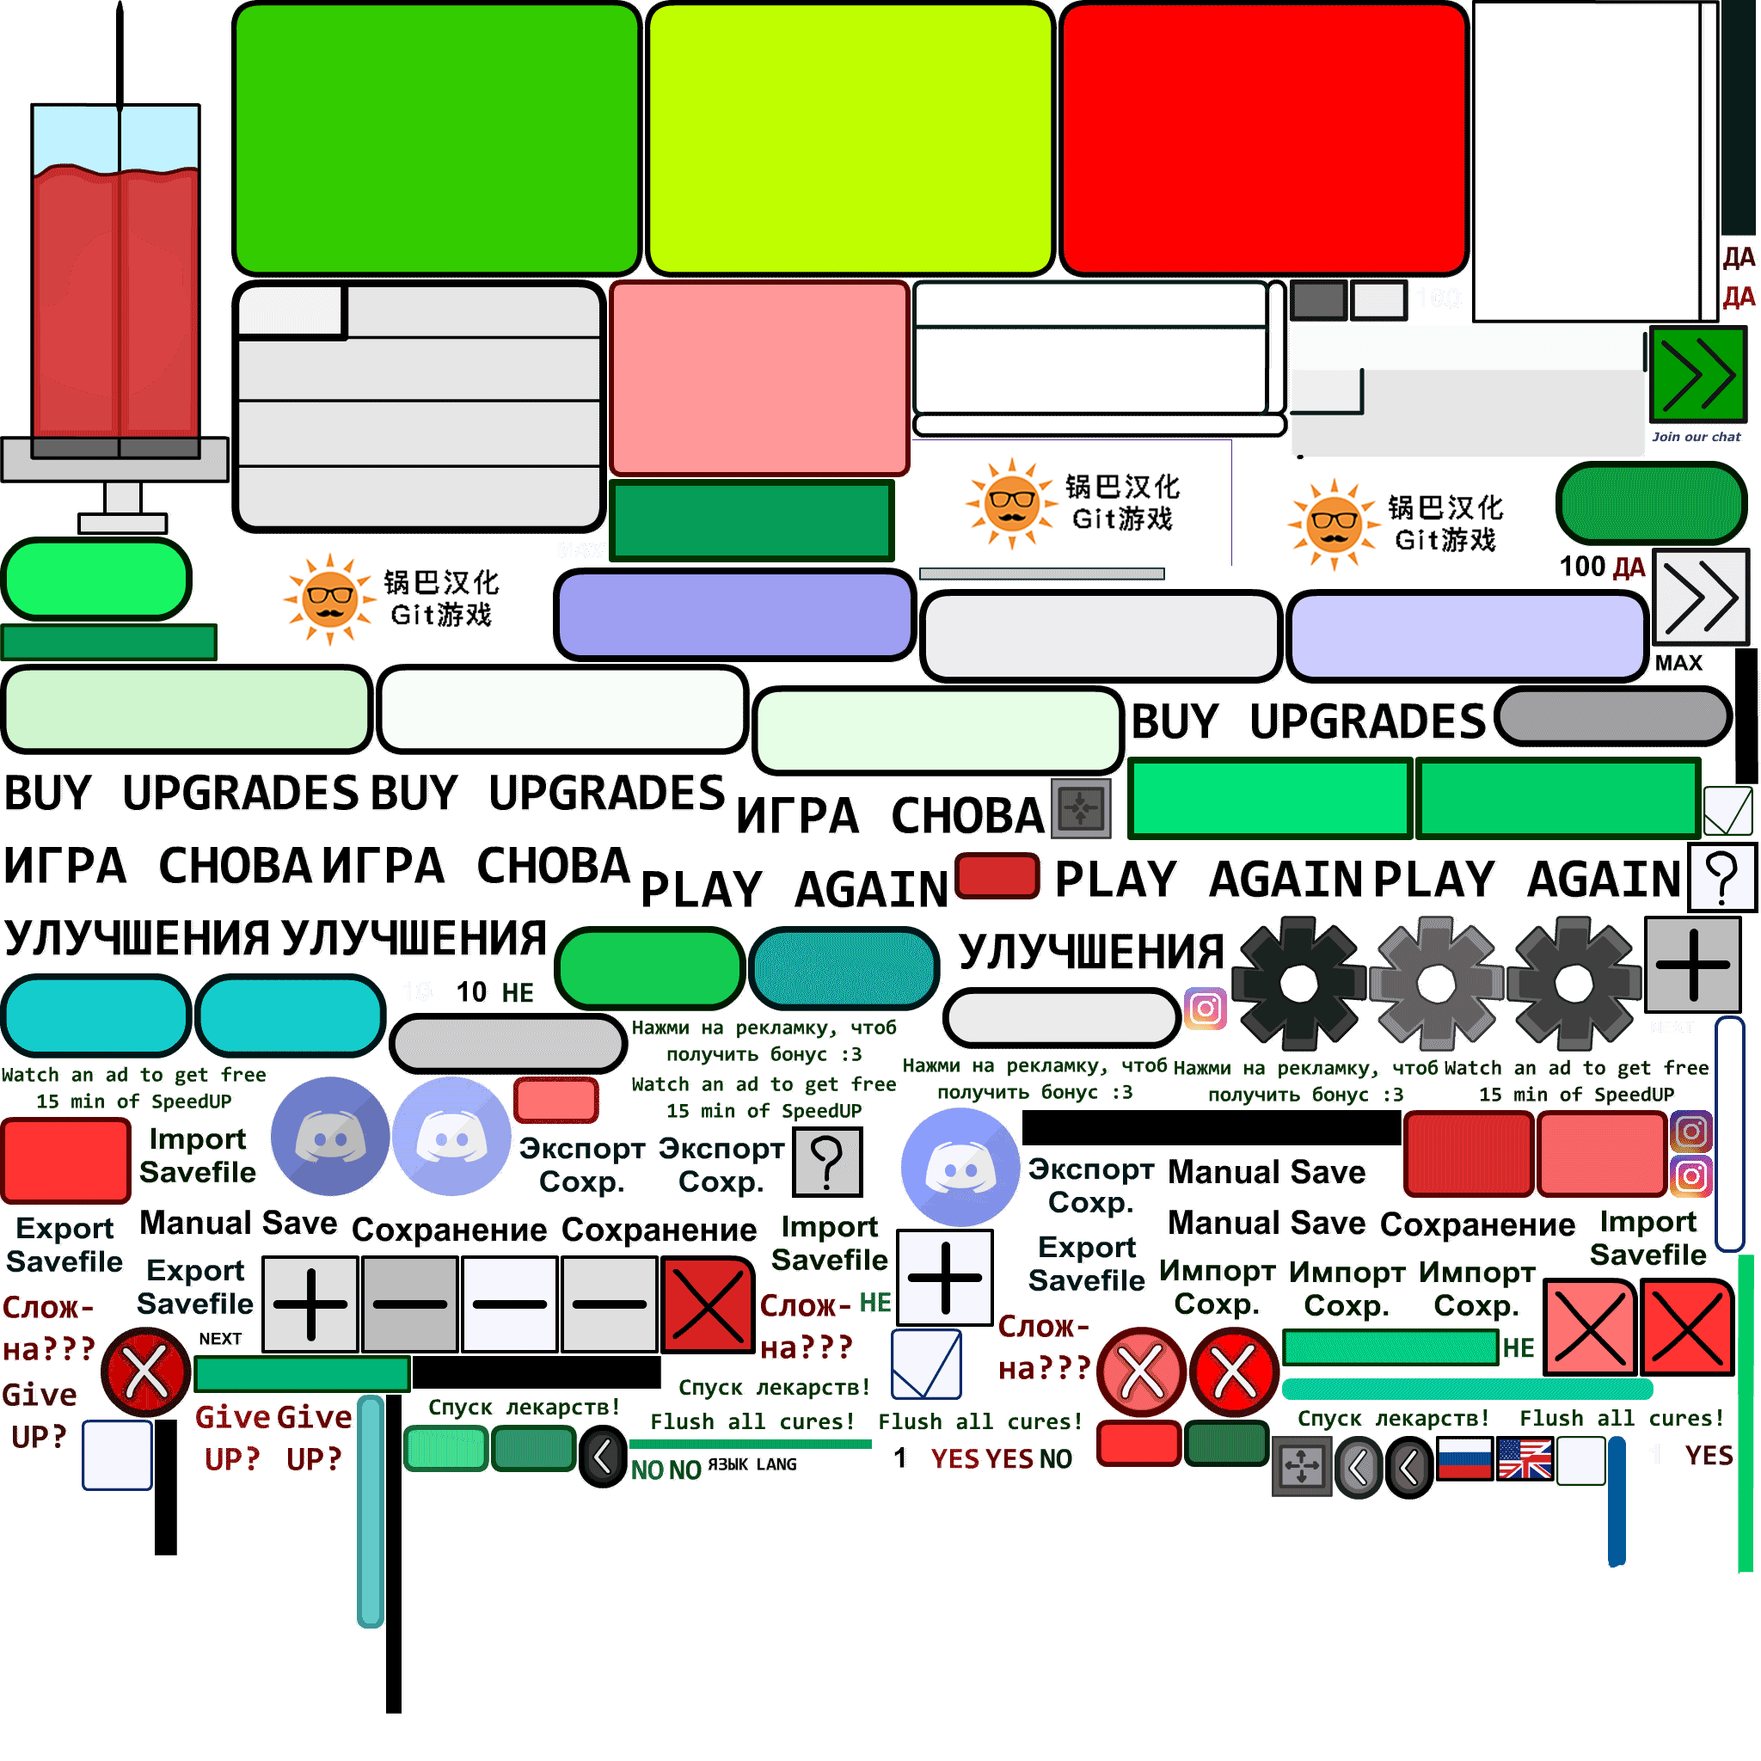
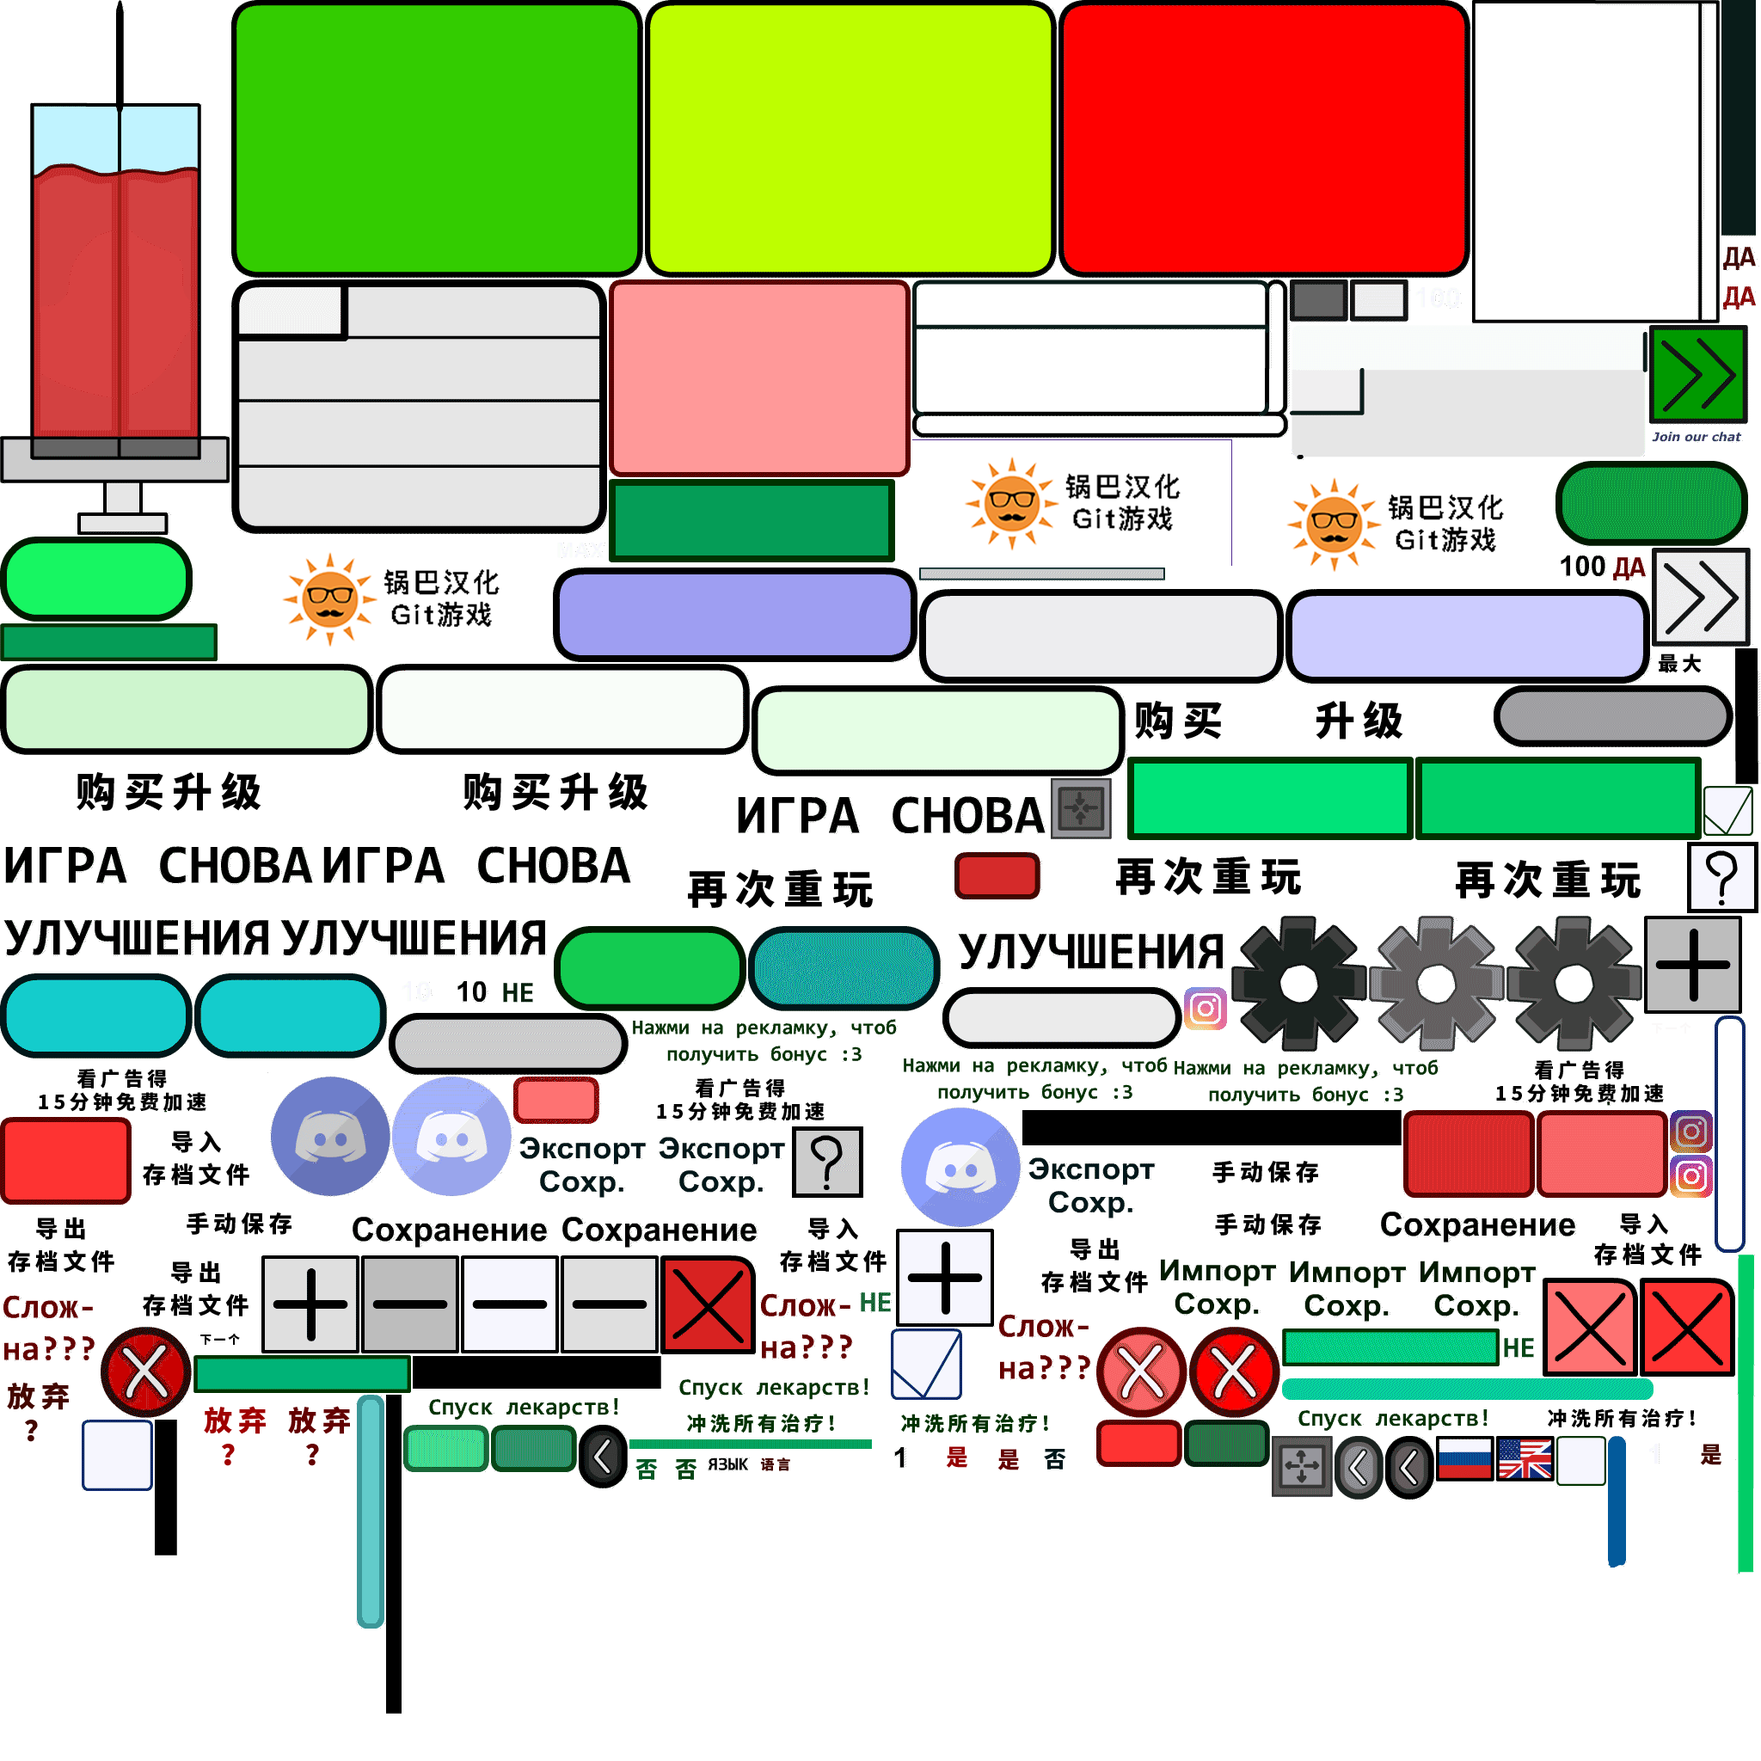
更新

diff --git a/index.js b/index.js
@@ -5277,7 +5277,7 @@ p.nominalBounds = new cjs.Rectangle(-2,-2,166.5,48.5);
 				this.spdUP.visible = true;
 				this.spdTime.visible = true;
 				if (language == 0) {
-					this.spdUP.text = "SpeedUP (x3)";
+					this.spdUP.text = "加速 (x3)";
 					this.spdTime.text = Math.round(speedUPTime*10)/10 + " s";
 				}
 				else {
@@ -5309,7 +5309,7 @@ p.nominalBounds = new cjs.Rectangle(-2,-2,166.5,48.5);
 			
 			if (!insBonus) {
 				this.bonus1.visible = true;
-				this.bonus1.text = trans("click for 20 mins bonus time");
+				this.bonus1.text = trans("点击获得 20 分钟奖励时间");
 			}
 			else {
 				this.bonus1.visible = false;
@@ -5343,16 +5343,16 @@ p.nominalBounds = new cjs.Rectangle(-2,-2,166.5,48.5);
 				
 				
 				if (language == 0) {
-					this.congWind.concon.text = "Congratulations, you saved the World!";
-					this.congWind.killedIs.text = "and killed some people";
+					this.congWind.concon.text = "恭喜，你拯救了世界！";
+					this.congWind.killedIs.text = "并杀死了一些人";
 					
-					this.congWind.tookDays.text = "It took you " + Math.ceil(daysPassed) + " days (October 22, 2020 - " + showMonth(curDate.month) + " " + Math.round(curDate.day) + ", " + Math.round(curDate.year) + ")";
-					this.congWind.curedAm.text = "You cured people " + format_beauty(sucss, 0) + " times.";
-					this.congWind.immunedAm.text = "You made " + format_beauty(immuned, 0) + " people immuned to the virus.";
-					this.congWind.killedAm.text = "You killed " + format_beauty(deadByU, 0) + " people [Total deaths: " + format_beauty(totalDeaths, 0) + "]";
-					this.congWind.vacAm.text = "You sold " + format_beauty(vacSold, 0) + " cures and made " + format_beauty(totalMMade, 0) + "$";
+					this.congWind.tookDays.text = "它花费了你 " + Math.ceil(daysPassed) + " 天 (October 22, 2020 - " + showMonth(curDate.month) + " " + Math.round(curDate.day) + ", " + Math.round(curDate.year) + ")";
+					this.congWind.curedAm.text = "你治愈了 " + format_beauty(sucss, 0) + " 人.";
+					this.congWind.immunedAm.text = "你让 " + format_beauty(immuned, 0) + " 人对病毒免疫了.";
+					this.congWind.killedAm.text = "你害死了 " + format_beauty(deadByU, 0) + " 人 [总死亡: " + format_beauty(totalDeaths, 0) + "]";
+					this.congWind.vacAm.text = "你出售了 " + format_beauty(vacSold, 0) + " 治愈和赚了 " + format_beauty(totalMMade, 0) + "$";
 					
-					this.congWind.difty.text = "Difficulty: " + dif_prob;
+					this.congWind.difty.text = "难度: " + dif_prob;
 				}
 				else {
 					this.congWind.concon.text = "Поздравляю, вы спасли весь Мир!";
@@ -5378,7 +5378,7 @@ p.nominalBounds = new cjs.Rectangle(-2,-2,166.5,48.5);
 				}
 				
 				if (language == 0) {
-					this.congWind.bonusPts.text = "BONUS POINTS GAIN: " + format_beauty(bonusPGain, 0) + " [TOTAL: " + format_beauty(bonusPts, 0) + "]";
+					this.congWind.bonusPts.text = "奖励点数增益: " + format_beauty(bonusPGain, 0) + " 总计: " + format_beauty(bonusPts, 0) + "]";
 				}
 				else {
 					this.congWind.bonusPts.text = "Бонусов получено: " + format_beauty(bonusPGain, 0) + " [Всего: " + format_beauty(bonusPts, 0) + "]";
@@ -5442,10 +5442,10 @@ p.nominalBounds = new cjs.Rectangle(-2,-2,166.5,48.5);
 					this.congWind.minusCon.visible = false;
 				}
 				
-				if (language == 0) this.congWind.hintt.text = "Cure atleast 1% of total cases to lvl up your max difficulty";
+				if (language == 0) this.congWind.hintt.text = "治愈至少 1% 的病例来提升你的最大难度";
 				else this.congWind.hintt.text = "Вылечи хотя-бы 1% от всех заболеваний чтобы продвинуться в сложности";
 				
-				if (language == 0) this.congWind.modeTT.text = "Normal Mode";
+				if (language == 0) this.congWind.modeTT.text = "正常模式";
 				else this.congWind.modeTT.text = "Обычная игра";
 				
 				this.congWind.buyUpg.gotoAndStop(language);
@@ -5592,9 +5592,9 @@ p.nominalBounds = new cjs.Rectangle(-2,-2,166.5,48.5);
 			}
 			
 				if (language == 0) {
-					this.vcHelp.baseVV.text = "Base C.Cost ~ " + format_beauty((vCostMult**vcPow), 2) + "$";
-					this.vcHelp.maxVV.text = "Max C.C ~ " + format_beauty(((1000*vCostMult)**vcPow), 0) + "$";
-					this.vcHelp.minVV.text = "Min C.C ~ " + format_beauty(((vCostMult**vcPow)/100), 2) + "$";
+					this.vcHelp.baseVV.text = "基础 C.成本 ~ " + format_beauty((vCostMult**vcPow), 2) + "$";
+					this.vcHelp.maxVV.text = "最大 治愈成本 ~ " + format_beauty(((1000*vCostMult)**vcPow), 0) + "$";
+					this.vcHelp.minVV.text = "最小 治愈成本 ~ " + format_beauty(((vCostMult**vcPow)/100), 2) + "$";
 				}
 				else {
 					this.vcHelp.baseVV.text = "Баз. цена ~ " + format_beauty((vCostMult**vcPow), 2) + "$";
@@ -5603,8 +5603,8 @@ p.nominalBounds = new cjs.Rectangle(-2,-2,166.5,48.5);
 				}
 				
 				if (language == 0) {
-					this.vcHelp.ccs_b.text = "Cure Cost?";
-					this.vcHelp.ccrr.text = "Every your cure increases C.C by 0.0001$ / immunity by 0.001$. If human dies after your cure, it decreases C.C by 0.005$ and 0.01%";
+					this.vcHelp.ccs_b.text = "治疗成本?";
+					this.vcHelp.ccrr.text = "你每治疗一个人，提高治疗成本 0.0001$ / 免疫力 0.001$. 如果人类在你治疗后死亡, 它减少 治疗成本 0.005$ 和 0.01%";
 				}
 				else {
 					this.vcHelp.ccs_b.text = "Цена?";
@@ -5851,9 +5851,9 @@ p.nominalBounds = new cjs.Rectangle(-2,-2,166.5,48.5);
 			if (this.vupgade_window.visible) {
 				
 				if (language == 0) {
-					this.vupgade_window.cName.text = "Cure Upgrades";
-					this.vupgade_window.vacLL.text = "Cure Lv: " + format_beauty(vacLvl, 0) + " (Start cures: " + format_beauty(startV, 0) + ")";
-					this.vupgade_window.bpNow.text = "Bonus points: " + format_beauty(bonusPts, 0);
+					this.vupgade_window.cName.text = "治疗升级";
+					this.vupgade_window.vacLL.text = "治疗等级: " + format_beauty(vacLvl, 0) + " (开始治疗: " + format_beauty(startV, 0) + ")";
+					this.vupgade_window.bpNow.text = "奖励点数: " + format_beauty(bonusPts, 0);
 				}
 				else {
 					this.vupgade_window.cName.text = "Улучшения лекарства";
@@ -5904,8 +5904,8 @@ p.nominalBounds = new cjs.Rectangle(-2,-2,166.5,48.5);
 				this.giveUPW.yesGUP.gotoAndStop(language);
 				this.giveUPW.noGUP.gotoAndStop(language);
 				if (language == 0) {
-					this.giveUPW.ginfo1.text = "Are you really sure to give up?";
-					this.giveUPW.ginfo2.text = "You will lose your progress and won't get any bonuses but you freely can change your dif-ty/spend est BP";
+					this.giveUPW.ginfo1.text = "你真的确定要放弃吗？";
+					this.giveUPW.ginfo2.text = "您将失去进度并且不会获得任何奖励，但您可以自由更改您的 难度/花费 BP";
 				}
 				else {
 					this.giveUPW.ginfo1.text = "Вы правда хотите сдаться?";
@@ -5922,7 +5922,7 @@ p.nominalBounds = new cjs.Rectangle(-2,-2,166.5,48.5);
 		function curePrestige() {
 			if (!got1T) {
 				this.flushedInfo.visible = true;
-				this.flushedInfo.text = "Get 10B cures to unlock this";
+				this.flushedInfo.text = "获得 10B 治愈来解锁这个";
 				this.flushAllL.visible = false;
 				this.getVcs.visible = false;
 				this.vacBonusc.visible = false;
@@ -5930,7 +5930,7 @@ p.nominalBounds = new cjs.Rectangle(-2,-2,166.5,48.5);
 			else {
 				this.flushedInfo.visible = true;
 				if (language == 0) {
-					this.flushedInfo.text = "Flushed Cures: "
+					this.flushedInfo.text = "冲洗治疗: "
 					+ format_short(flushed, 0) + " -> " + format_short(realVacs, 0)
 					+ " Vcs";
 				}
@@ -5959,7 +5959,7 @@ p.nominalBounds = new cjs.Rectangle(-2,-2,166.5,48.5);
 				if (language == 0) {
 					this.getVcs.text = "to get " + format_short(gain, 0) + " Vaccines";
 					
-					this.vacBonusc.text = "Increases your BP and cure gain by x" + format_short(vacBonus, 3);
+					this.vacBonusc.text = "增加你的BP和治愈增益 x" + format_short(vacBonus, 3);
 				}
 				else {
 					this.getVcs.text = "получ. " + format_short(gain, 0) + " вакцин";
@@ -6019,7 +6019,7 @@ p.nominalBounds = new cjs.Rectangle(-2,-2,166.5,48.5);
 			if (num == 10) {
 				if (vpgrds[num][0] < vpgrds[num][1]) {
 					if (language == 0) {
-						vup.vup_base.uChange.text = "NO" + " -> YES";
+						vup.vup_base.uChange.text = "否" + " -> 是";
 					}
 					else {
 						vup.vup_base.uChange.text = "НЕТ" + " -> ДА";
@@ -6027,7 +6027,7 @@ p.nominalBounds = new cjs.Rectangle(-2,-2,166.5,48.5);
 				}
 				else {
 					if (language == 0) {
-						vup.vup_base.uChange.text = "Already bought";
+						vup.vup_base.uChange.text = "已购买";
 					}
 					else {
 						vup.vup_base.uChange.text = "Уже куплено";
@@ -6057,7 +6057,7 @@ p.nominalBounds = new cjs.Rectangle(-2,-2,166.5,48.5);
 			}
 			else {
 				if (language == 0) {
-					vup.vup_base.uCost.text = "Max Level!";
+					vup.vup_base.uCost.text = "最高级!";
 				}
 				else {
 					vup.vup_base.uCost.text = "Максимально!";
@@ -6297,11 +6297,11 @@ p.nominalBounds = new cjs.Rectangle(-2,-2,166.5,48.5);
 			}
 			if (hasAuto[0] == 1) {
 				this.autoBuy_t.visible = true;
-				if (language == 0) this.autoBuy_t.text = "Autobuy!";
+				if (language == 0) this.autoBuy_t.text = "自动购买!";
 				if (language == 1) this.autoBuy_t.text = "Автопокуп!";
 				this.autobIs.visible = true;
 				this.autobDesc.visible = true;
-				if (language == 0) this.autobDesc.text = "Autobuys the cheapest building every tick";
+				if (language == 0) this.autobDesc.text = "每一刻自动购买最便宜的建筑";
 				if (language == 1) this.autobDesc.text = "Каждый тик покупает самое дешевое";
 				this.tickSpeedt.visible = true;
 				this.autoBBar.visible = true;
@@ -6316,10 +6316,10 @@ p.nominalBounds = new cjs.Rectangle(-2,-2,166.5,48.5);
 				
 				if (language == 0) {
 					if (autoInter > 1) {
-						this.tickSpeedt.text = "Tick Speed: " + Math.round(autoInter*100)/100 + "s";
+						this.tickSpeedt.text = "Tick 速度: " + Math.round(autoInter*100)/100 + "s";
 					}
 					else {
-						this.tickSpeedt.text = "Tick Speed: " + Math.round(autoInter*1000) + "ms";
+						this.tickSpeedt.text = "Tick 速度: " + Math.round(autoInter*1000) + "ms";
 					}
 				}
 				else {
@@ -6826,7 +6826,7 @@ p.nominalBounds = new cjs.Rectangle(-2,-2,166.5,48.5);
 			}
 			
 			
-			this.sell5.name_u.text = trans("Leaders") + ": " + format_short(buildsSell[4][1], 0) + " [" + format_beauty(buildsSell[4][0], 0) + "]";
+			this.sell5.name_u.text = trans("领导") + ": " + format_short(buildsSell[4][1], 0) + " [" + format_beauty(buildsSell[4][0], 0) + "]";
 			this.sell5.lv_u.text = Math.round(buildsSell[4][2]) + "";
 			
 			if (buildsSell[4][4] / buildsSell[3][10] < 1) {
@@ -7095,7 +7095,7 @@ p.nominalBounds = new cjs.Rectangle(-2,-2,166.5,48.5);
 			
 			this.totalmmade_txt.text = trans("总计赚的钱 $") + ": " + format_beauty(totalMMade, 0) + "$";
 			
-			this.timePas_txt.text = trans("过去时间") + ": " + (timeDays>0 ? format_beauty(timeDays, 0) + " "+trans("days") + " " : "") + (timeHours>0 ? format_beauty(timeHours, 0) + " " + trans("hours") + " " : "") + format_beauty(timeMinutes, 2) + " " + trans("mins") + " ";
+			this.timePas_txt.text = trans("过去时间") + ": " + (timeDays>0 ? format_beauty(timeDays, 0) + " "+trans("天") + " " : "") + (timeHours>0 ? format_beauty(timeHours, 0) + " " + trans("小时") + " " : "") + format_beauty(timeMinutes, 2) + " " + trans("分钟") + " ";
 			
 			this.difty_txt.text = trans("难度") + ": " + format_beauty(difficulty, 0);
 			
@@ -7537,28 +7537,28 @@ p.nominalBounds = new cjs.Rectangle(-2,-2,166.5,48.5);
 		this.addEventListener("tick", translateconst.bind(this));
 		function translateconst() {
 			if (language == 0) {
-				this.gameInfo_.text = "You can cure only sick. Game ends when the pandemic is over.";
-				this.wpop_static.text = "World Population";
-				this.selling_st.text = "SELLING";
-				this.ycu.text = "Your cure";
-				this.csta.text = "Cure stats";
+				this.gameInfo_.text = "你只能治病。 大流行结束后，游戏结束。";
+				this.wpop_static.text = "世界人口";
+				this.selling_st.text = "出售";
+				this.ycu.text = "你的治数";
+				this.csta.text = "治愈统计";
 				
 				this.gmade_stat.text = "Game by Denisolenison";
-				this.madeInstat.text = "made in Fall 2020";
-				this.versionStat.text = "Version: 1.0.6";
-				this.stath2.text = "subscribe for extra karma";
-				this.stath3.text = "like game post for extra karma too:)";
+				this.madeInstat.text = "制作于 2020 秋季";
+				this.versionStat.text = "版本: 1.0.6";
+				this.stath2.text = "订阅获得额外的业力";
+				this.stath3.text = "喜欢游戏帖子也可以获得额外的业力:)";
 				
 				vNames = ["Inflation", "B.Cure Ch.", "B.Imm. Ch.", "B.Death Ch.", "B.Cure Time", "Time Spread", "B.Sell Time", "Sell Once", "Make Once", "All Gains", "Autobuy", "Autobuy T."];
 				vDescs = ["Your base/max/min v.cost is multiplied by", "Base Cure Chance is", "Base Immunity Chance is (mult. to cure ch.)", "Base Death Chance is (mult. to not cure ch.)", "Base time to make cures", "Days and months go slower", "Base time to sell cures", "Sell more cures once", "Make more cures once", "Multiplies all buildings speed", "Automatically buys building", "Autobuy more often"];
 				
-				this.optWindow.opNa.text = "Options";
+				this.optWindow.opNa.text = "选项";
 				
 				if (notation == 0) {
-					this.optWindow.opt1.text = "Notation: Common";
+					this.optWindow.opt1.text = "符号: 常见";
 				}
 				else {
-					this.optWindow.opt1.text = "Notation: Exponential";
+					this.optWindow.opt1.text = "符号: 指数";
 				}
 				this.optWindow.importSF.gotoAndStop(language);
 				this.optWindow.man_save.gotoAndStop(language);
@@ -7910,7 +7910,7 @@ p.nominalBounds = new cjs.Rectangle(-2,-2,166.5,48.5);
 		  if ('FileReader' in window) {
 		    document.getElementById('exampleInputFile').click();
 		  } else {
-		    alert('Your browser does not support the HTML5 FileReader.');
+		    alert('您的浏览器不支持 HTML5 FileReader。');
 		  }
 		}
 		
@@ -7931,7 +7931,7 @@ p.nominalBounds = new cjs.Rectangle(-2,-2,166.5,48.5);
 		
 		function saveFile() {
 		  if ('Blob' in window) {
-		    var fileName = prompt('Please enter file name to save', 'Vac_Save.txt');
+		    var fileName = prompt('请输入要保存的文件名', 'Vac_Save.txt');
 		    if (fileName) {
 			  makeSaveFile();
 		      var textToWrite = sFileText + "";  //че сохраняем (в виде текста уже)
@@ -7942,7 +7942,7 @@ p.nominalBounds = new cjs.Rectangle(-2,-2,166.5,48.5);
 		      } else {
 		        var downloadLink = document.createElement('a');
 		        downloadLink.download = fileName;
-		        downloadLink.innerHTML = 'Download File';
+		        downloadLink.innerHTML = '下载文件';
 		        if ('webkitURL' in window) {
 		          // Chrome allows the link to be clicked without actually adding it to the DOM.
 		          downloadLink.href = window.webkitURL.createObjectURL(textFileAsBlob);
@@ -7958,7 +7958,7 @@ p.nominalBounds = new cjs.Rectangle(-2,-2,166.5,48.5);
 		      }
 		    }
 		  } else {
-		    alert('Your browser does not support the HTML5 Blob.');
+		    alert('您的浏览器不支持 HTML5 Blob。');
 		  }
 		}
 		
